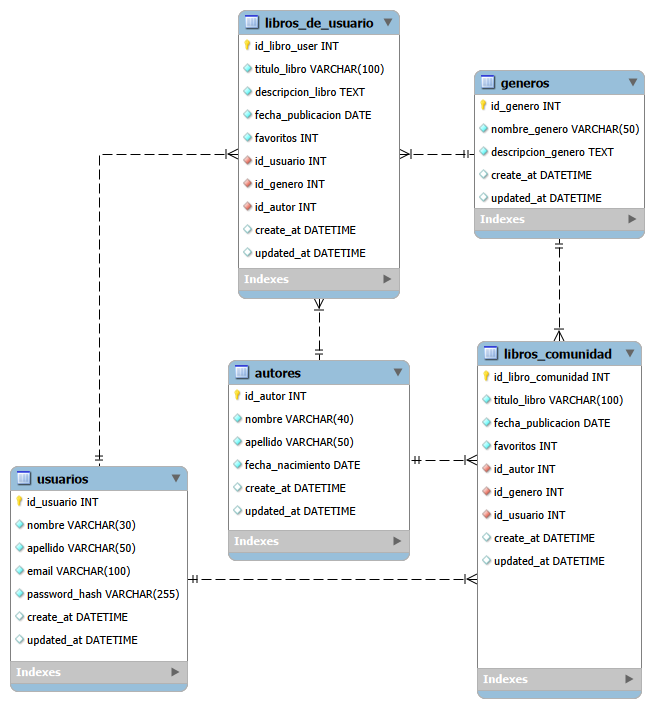
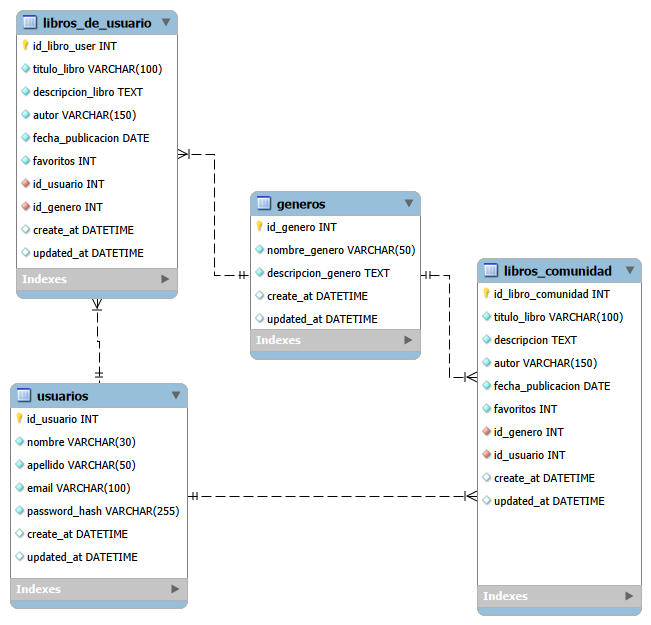
,m

diff --git a/flask_app/models/libro.py b/flask_app/models/libro.py
@@ -2,20 +2,22 @@ from flask_app.config.mysqlconnection import connectToMySQL
 from flask import flash
 from datetime import datetime
 
-SCHEMA = 'certificacion_simulado'
+SCHEMA = 'esquema_certificacion'
 
 class Libro:
     def __init__(self, data):
         self.id_libro_user = data.get('id_libro_user')
+        self.id_libro_comunidad = data.get('id_libro_comunidad')
         self.titulo_libro = data.get('titulo_libro')
         self.autor = data.get('autor')
-        self.descripcion_libro = data.get('descripcion_libro')
+        # Maneja tanto 'descripcion_libro' como 'descripcion' según la tabla de procedencia
+        self.descripcion_libro = data.get('descripcion_libro') or data.get('descripcion')
         self.fecha_publicacion = data.get('fecha_publicacion')
         self.favoritos = data.get('favoritos', 0)
         self.id_usuario = data.get('id_usuario')
         self.id_genero = data.get('id_genero')
         
-        # Atributos poblados mediante JOINs
+        # Atributos poblados con JOINs
         self.nombre_genero = data.get('nombre_genero', '')
         self.publicado_por = data.get('publicado_por', '')
 
@@ -41,11 +43,11 @@ class Libro:
     @classmethod
     def get_libros_comunidad(cls, id_usuario):
         query = """
-        SELECT l.*, g.nombre_genero, CONCAT(u.nombre, ' ', u.apellido) AS publicado_por
-        FROM libros_de_usuario l
-        JOIN usuarios u ON l.id_usuario = u.id_usuario
-        LEFT JOIN generos g ON l.id_genero = g.id_genero
-        WHERE l.id_usuario != %(id_usuario)s;
+        SELECT lc.*, g.nombre_genero, CONCAT(u.nombre, ' ', u.apellido) AS publicado_por
+        FROM libros_comunidad lc
+        JOIN usuarios u ON lc.id_usuario = u.id_usuario
+        LEFT JOIN generos g ON lc.id_genero = g.id_genero
+        WHERE lc.id_usuario != %(id_usuario)s;
         """
         results = connectToMySQL(SCHEMA).query_db(query, {'id_usuario': id_usuario})
         return [cls(row) for row in results] if results else []
@@ -93,7 +95,7 @@ class Libro:
             is_valid = False
 
         if len(data.get('autor', '').strip()) < 2:
-            flash("El nombre del autor debe tener al menos 2 caracteres.", "libro_autor")
+            flash("El autor debe tener al menos 2 caracteres.", "libro_autor")
             is_valid = False
 
         if not data.get('id_genero'):

diff --git a/flask_app/controllers/libros.py b/flask_app/controllers/libros.py
@@ -3,7 +3,7 @@ from flask_app import app
 from flask_app.models.libro import Libro
 from flask_app.config.mysqlconnection import connectToMySQL
 
-SCHEMA = 'certificacion_simulado'
+SCHEMA = 'esquema_certificacion'
 
 def requerir_login():
     if 'usuario_id' not in session:
@@ -27,7 +27,6 @@ def nuevo_libro():
     if not requerir_login():
         return redirect('/')
     
-    # Obtenemos géneros existentes para el desplegable
     generos = connectToMySQL(SCHEMA).query_db("SELECT * FROM generos;") or []
     return render_template('agregar_libro.html', generos=generos)
 

diff --git a/flask_app/models/usuario.py b/flask_app/models/usuario.py
@@ -3,7 +3,7 @@ from flask import flash
 import re
 
 EMAIL_REGEX = re.compile(r'^[a-zA-Z0-9.+_-]+@[a-zA-Z0-9._-]+\.[a-zA-Z]+$')
-SCHEMA = 'certificacion_simulado'
+SCHEMA = 'esquema_certificacion'
 
 class Usuario:
     def __init__(self, data):
